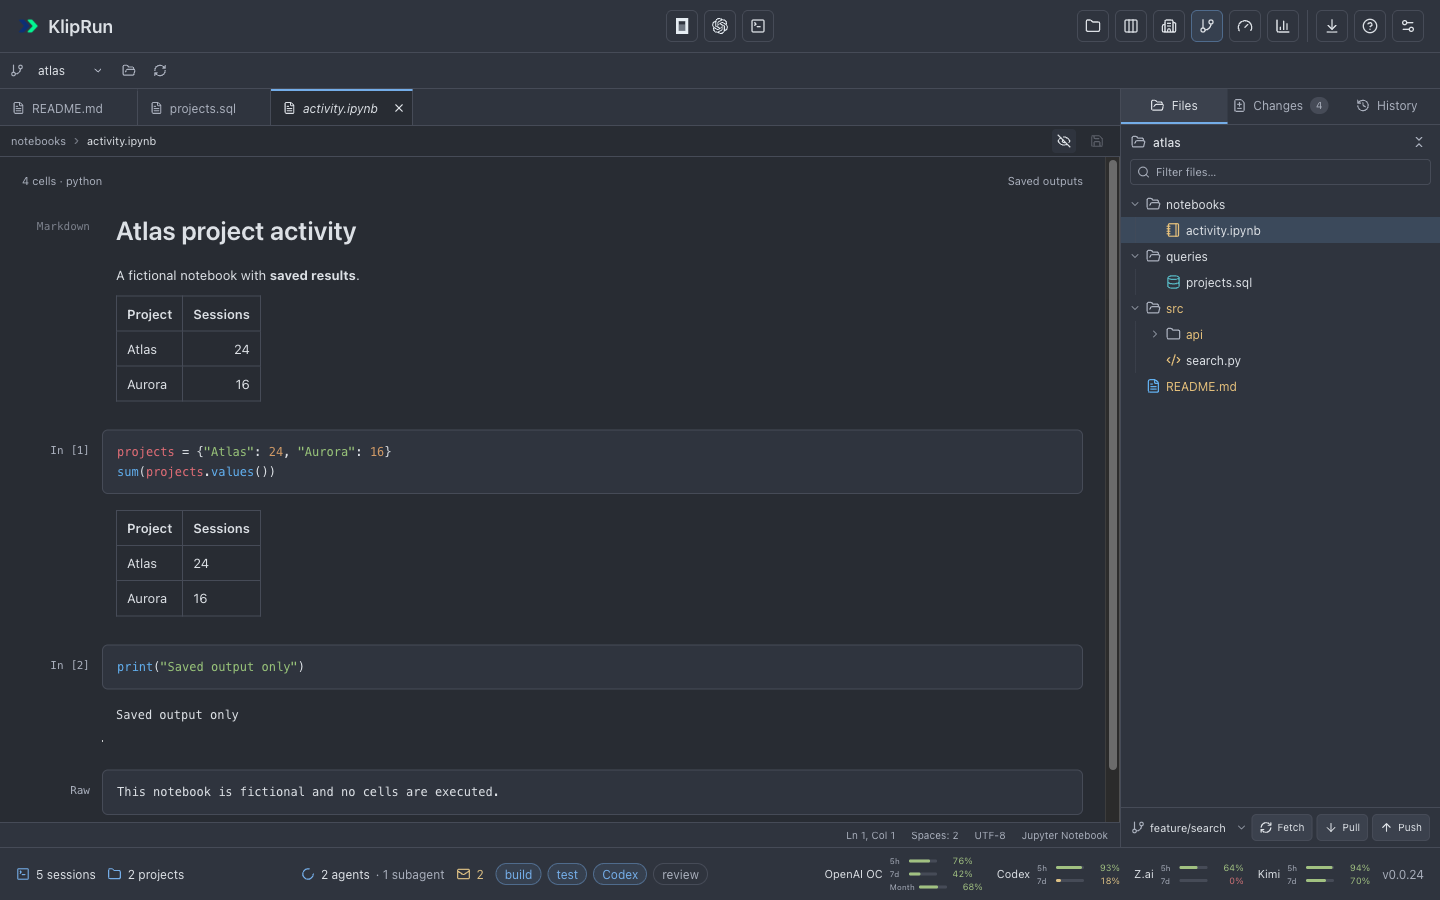
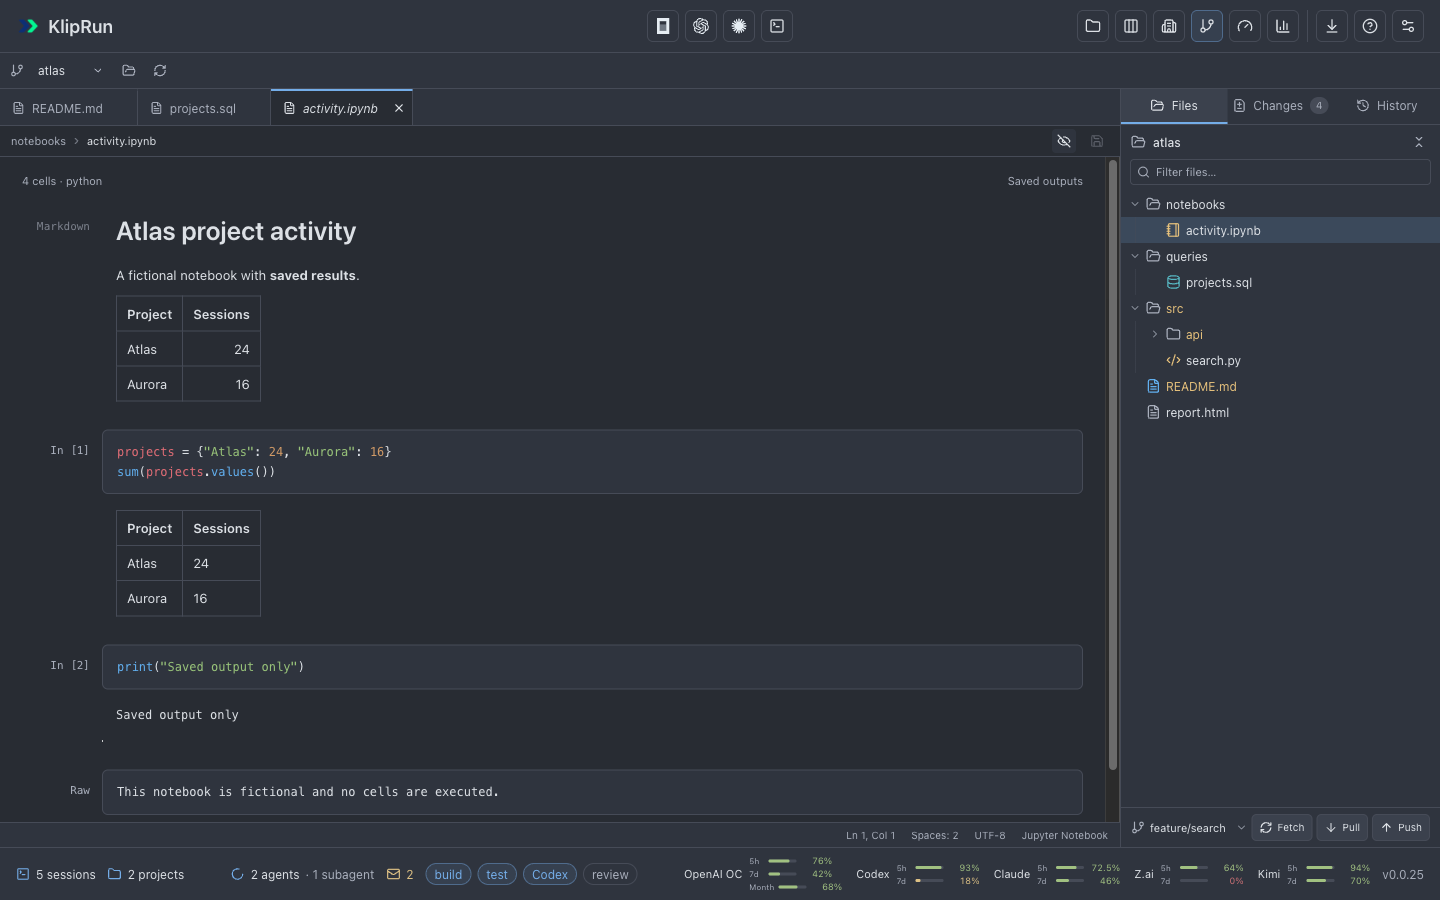
release/0.0.25: Подготовить версию и обновить все скриншоты

Changed region(s): [[0.1875, 0.9333, 0.7188, 0.9956], [0.4375, 0.0, 0.5312, 0.0622], [0.7812, 0.4356, 0.8438, 0.4667]]

diff --git a/docs/screenshots/terminal-demo.html b/docs/screenshots/terminal-demo.html
@@ -15,8 +15,12 @@
     .terminal { width: 460px; max-width: 40%; flex-shrink: 0; background: #282c34; color: #abb2bf; }
     .toolbar { height: 36px; display: flex; align-items: center; gap: 8px; padding: 0 10px; background: #2f343e; font-size: 11px; white-space: nowrap; }
     .terminal-icon { color: #74ade8; font-size: 15px; }
-    .tab { height: 25px; display: flex; align-items: center; gap: 6px; padding: 0 9px; border-radius: 5px; color: #ffffff; background: rgb(255 255 255 / 10%); }
+    .tab { position: relative; height: 30px; display: flex; align-items: center; gap: 6px; padding: 0 9px; border-radius: 5px; color: #ffffff; background: rgb(255 255 255 / 10%); }
     .tab:not(.selected) { color: #ffffff; background: rgb(255 255 255 / 3%); }
+    .tab.selected::before { content: ''; position: absolute; top: 0; left: 5px; right: 5px; height: 2px; border-radius: 1px; background: #61afef; }
+    .tab.pinned { width: 28px; height: 28px; justify-content: center; padding: 0; }
+    .tab.pinned svg { width: 14px; height: 14px; }
+    .tab.pinned .dot { position: absolute; right: 3px; bottom: 3px; width: 5px; height: 5px; }
     .dot { width: 6px; height: 6px; border-radius: 50%; background: #98c379; }
     .spacer { flex: 1; }
     .button { color: #a9afbc; font-size: 14px; padding: 0 2px; }
@@ -34,7 +38,7 @@
     <section class="terminal" aria-label="Synthetic OpenCode terminal">
       <header class="toolbar">
         <span class="terminal-icon" aria-hidden="true">▣</span>
-        <div class="tab selected"><span class="dot"></span>OpenCode · atlas</div>
+        <div class="tab pinned selected" title="OpenCode · atlas" aria-label="Pinned OpenCode · atlas"><svg viewBox="0 0 24 24" fill="none" stroke="currentColor" stroke-width="1.7" aria-hidden="true"><rect x="3" y="4" width="18" height="16" rx="2"/><path d="m7 9 3 3-3 3m6 0h4"/></svg><span class="dot"></span></div>
         <div class="tab"><span class="dot"></span>Codex · aurora</div>
         <span class="spacer"></span>
         <span class="button" aria-hidden="true">＋</span>

diff --git a/docs/screenshots/capture-all.js b/docs/screenshots/capture-all.js
@@ -6,10 +6,11 @@ async (page, directory = "docs/screenshots", base = "http://127.0.0.1:18796") =>
   page.on("request", watch);
   async function visit(path, width, height) {
     await page.setViewportSize({ width, height });
+    await page.mouse.move(0, 0);
     await page.goto(`${base}${path}`);
     if (!path.startsWith("/__demo/")) {
       await page.locator('[data-testid="version"]').waitFor();
-      if ((await page.locator('[data-testid="version"]').innerText()) !== "v0.0.24") throw new Error("Build the 0.0.24 client before capturing.");
+      if ((await page.locator('[data-testid="version"]').innerText()) !== "v0.0.25") throw new Error("Build the 0.0.25 client before capturing.");
     }
   }
   async function save(name) {
@@ -52,7 +53,7 @@ async (page, directory = "docs/screenshots", base = "http://127.0.0.1:18796") =>
     await page.locator('.usage-provider[data-provider="kimi"] .usage-balance').waitFor();
     await page.getByText("Checking providers…", { exact: true }).waitFor({ state: "hidden" });
     const providers = await page.locator(".usage-provider h2").allTextContents();
-    if (providers.join("|") !== "OpenAI · OpenCode|OpenAI · Codex|Z.ai|Kimi") throw new Error(`Unexpected providers: ${providers}`);
+    if (providers.join("|") !== "OpenAI · OpenCode|OpenAI · Codex|Claude Code|Z.ai|Kimi") throw new Error(`Unexpected providers: ${providers}`);
     await save("usage");
     await visit("/", 1600, 1000);
     await page.locator('[data-testid="card-ses_demo_search"]').waitFor();

diff --git a/docs/screenshots/capture-usage.js b/docs/screenshots/capture-usage.js
@@ -5,7 +5,7 @@ async (page) => {
   await page.locator('.usage-provider[data-provider="kimi"] .usage-balance').waitFor();
   await page.getByText('Checking providers…', { exact: true }).waitFor({ state: 'hidden' });
   const labels = await page.locator('.usage-provider h2').allTextContents();
-  if (labels.join('|') !== 'OpenAI · OpenCode|OpenAI · Codex|Z.ai|Kimi') throw new Error(`Unexpected cards: ${labels}`);
+  if (labels.join('|') !== 'OpenAI · OpenCode|OpenAI · Codex|Claude Code|Z.ai|Kimi') throw new Error(`Unexpected cards: ${labels}`);
   await page.screenshot({ path: 'docs/screenshots/usage.png' });
   return { labels, viewport: page.viewportSize() };
 }

diff --git a/README.md b/README.md
@@ -1,6 +1,6 @@
 # KlipRun Desktop
 
-A macOS app for OpenCode and Codex sessions: a Kanban board, embedded terminals, repository file editing and Git diffs, searchable session history, and usage statistics.
+A macOS app for OpenCode, Codex, and Claude Code sessions: a Kanban board, embedded terminals, repository file editing and Git diffs, searchable session history, and usage statistics.
 
 ## Screenshots
 
@@ -26,11 +26,21 @@ Show or hide the embedded terminal with **⌘J**; click a session card to open i
 
 Requires **Apple Silicon and macOS 13+**.
 
-1. Download `KlipRun-0.0.24-macos-arm64.zip` from the [latest release](https://github.com/klipbn/kliprun_desktop/releases/latest).
+1. Download `KlipRun-0.0.25-macos-arm64.zip` from the [latest release](https://github.com/klipbn/kliprun_desktop/releases/latest).
 2. Unzip and move `KlipRun.app` to **Applications**. Quit KlipRun before replacing an older version.
 3. Open the app. If macOS blocks it, use **System Settings → Privacy & Security → Open Anyway**. The build is locally signed and not notarized.
 
-Install and sign in to [OpenCode](https://opencode.ai/) or [Codex CLI](https://github.com/openai/codex) separately. Git requires the macOS command line tools (`xcode-select --install`).
+Install and sign in to [OpenCode](https://opencode.ai/), [Codex CLI](https://github.com/openai/codex), or [Claude Code](https://code.claude.com/docs/en/overview) separately. Git requires the macOS command line tools (`xcode-select --install`).
+
+The Claude Code button is immediately to the right of Codex; **⌘⇧A** opens a project picker and starts `claude` in an embedded terminal. Sessions shows Claude history and can resume a chat in its original folder. KlipRun reads `~/.claude/projects` (or `CLAUDE_CONFIG_DIR`) without modifying Claude's configuration or journals. Live cards use confirmed process/session records or open journal descriptors; ambiguous terminals display “Status unknown”. Model, token usage, messages, tool activity, and observed status history appear alongside the other agents. Context bars use recorded model limits or the existing model-limit catalog/overrides; unavailable limits are left blank. Usage and the bottom status bar show remaining 5-hour and weekly Claude subscription limits using the existing OAuth sign-in from macOS Keychain or `.credentials.json`. Renew expired sign-ins in Claude Code; API keys do not expose subscription limits.
+
+In **Sessions**, drag the divider beside All sessions, Favorites, and Projects to resize the sidebar; its width is saved. Hover or focus the running/unread counters or an agent badge in the bottom bar to open a session list, then click a session to view its details. Terminal tabs offer **Rename…**, **Pin / Unpin**, and **Close** on right-click. Pinned tabs collapse to squares with the full title on hover and stay on the left in pin order; the active tab has a thin accent line above it. Closing a running tab ends its process after confirmation.
+
+In **Git → Changes**, drag the divider above the commit box to change its height. **History → Changed files** has its own divider. Focus either divider and use **↑ / ↓** to resize with the keyboard.
+
+Long lines wrap in **Git → Changes**, **History**, and the **Files** source editor without inserting line breaks into the saved file.
+
+In **Git → Files**, `.html` and `.htm` open as highlighted source. The eye button switches between code and the rendered current draft, including unsaved edits. Self-contained HTML can use inline CSS, embedded images, and inline JavaScript; external resources and application access are blocked. Previews unload when hidden or closed. The existing 512 KiB editor limit applies. Use **Open in Default App** for larger reports or pages that need neighboring files or network resources.
 
 ## Build
 

diff --git a/docs/screenshots/README.md b/docs/screenshots/README.md
@@ -1,6 +1,6 @@
 # Demo screenshots
 
-All nineteen current screenshots were captured from **KlipRun Desktop 0.0.24** on **2026-10-18**, using Graphite, the new default. The original palette is now named Midnight. Session IDs, titles, project paths, models, priority flags, Git metadata, quotas, and usage totals come only from [`mock-api.json`](mock-api.json). The preview fixes the clock to the fixture’s `board.generated_at` (2026-10-14), supplies a stub desktop bridge, and disables Office motion. No live engine, user session store, credentials, quota API, or agent process is used.
+All nineteen current screenshots were captured from **KlipRun Desktop 0.0.25** on **2026-10-18**, using Graphite, the new default. The original palette is now named Midnight. Session IDs, titles, project paths, models, priority flags, Git metadata, quotas, and usage totals come only from [`mock-api.json`](mock-api.json). The preview fixes the clock to the fixture’s `board.generated_at` (2026-10-14), supplies a stub desktop bridge, and disables Office motion. No live engine, user session store, credentials, quota API, or agent process is used.
 
 | File | Size | Example shown |
 | --- | --- | --- |
@@ -58,6 +58,8 @@ Klopik skin thumbnails in `engine/src/client/public/klopik-skins/` are generated
 
 [`../../scripts/git-review-layout.test.js`](../../scripts/git-review-layout.test.js) checks the compact repository toolbar, staging controls before filenames, loaded-commit search, keyboard navigation, automatic first-file diffs, persistent close, and small layouts using fixture data without Git writes.
 
-[`capture-files.js`](capture-files.js) takes `(page, outputDirectory, fixture, base)` and captures Files, its context menu, Markdown, and Jupyter Notebook from `git.text_files` in `mock-api.json`, with all file reads intercepted and no writes. All nineteen current images were refreshed for 0.0.24.
+[`capture-files.js`](capture-files.js) takes `(page, outputDirectory, fixture, base)` and captures Files, its context menu, Markdown, and Jupyter Notebook from `git.text_files` in `mock-api.json`, with all file reads intercepted and no writes. All nineteen current images were refreshed for 0.0.25.
 
 The shortcut image includes the native File/Edit/View/Navigate/Terminal commands. `scripts/native-menus.test.js` verifies the real web command bridge using fixture files and in-memory saves, including CodeMirror history, native-menu capability updates, unsaved-state reporting, close/cancel and draft-preserving refresh. Native focus/routing and standard menu shortcuts are checked separately with Swift tests and a disposable menu probe.
+
+The 0.0.25 refresh preserves the README and gallery ordering. It includes the monochrome Claude launch icon and Claude quota row, larger Sessions indicators and a sidebar divider, wrapped Git source/diffs, commit/history height dividers, and synthetic compact pinned terminal tabs. HTML preview and status-popup checks use only fixture data through `scripts/html-preview.test.js` and `scripts/workspace-controls.test.js`; commit/history resizing is covered by `scripts/git-height-resize.test.js`.

diff --git a/CHANGELOG.md b/CHANGELOG.md
@@ -4,6 +4,22 @@ Notable changes to KlipRun Desktop are recorded here. Versions use [Semantic Ver
 
 ## [Unreleased]
 
+## [0.0.25] - 2026-10-18
+
+### Added
+
+- Support Claude Code in Kanban, Office, Sessions, session details, and Statistics, with read-only local journal discovery, model/token/context data, tool activity, and confirmed terminal matching. Add its launch button directly to the right of Codex, native menu commands, **⌘⇧A**, and resume in the original project folder.
+- Show Claude Code's remaining 5-hour and weekly subscription limits and reset times in Usage and the bottom status bar, using its existing OAuth sign-in from macOS Keychain or the credentials file. Match the other agent buttons with a monochrome Claude icon.
+- Add highlighted HTML/HTM source and an eye-button preview in Git → Files. Render the current draft with inline CSS, images, and JavaScript in an isolated frame; unload the preview outside the active file. Keep the 512 KiB file limit, block network access and native bridge commands from preview frames, and preserve saving and undo history.
+- Resize and persist the Sessions sidebar using its divider or arrow keys. Open session lists from running/unread counters and agent badges in the status bar, with direct navigation and unread tracking.
+- Add Rename, Pin/Unpin, and Close to terminal tab context menus. Collapse pinned tabs to 28×28 squares with process indicators and full-title tooltips, keep them together on the left without restarting processes, and highlight the active tab with a thin top line.
+- Add height dividers for the Git commit message and History's Changed files pane, including keyboard resizing and bounds that keep the main lists visible.
+
+### Fixed
+
+- Wrap long lines in Git Changes and History diffs and in the Files source editor without changing file contents. Increase Sessions status dots for clearer visibility.
+- Allow the native WebView's initial load and authentication redirect to the app's loopback origin when WebKit supplies no source frame. Prevent a blank startup window while retaining HTML preview isolation.
+
 ## [0.0.24] - 2026-10-18
 
 ### Added
